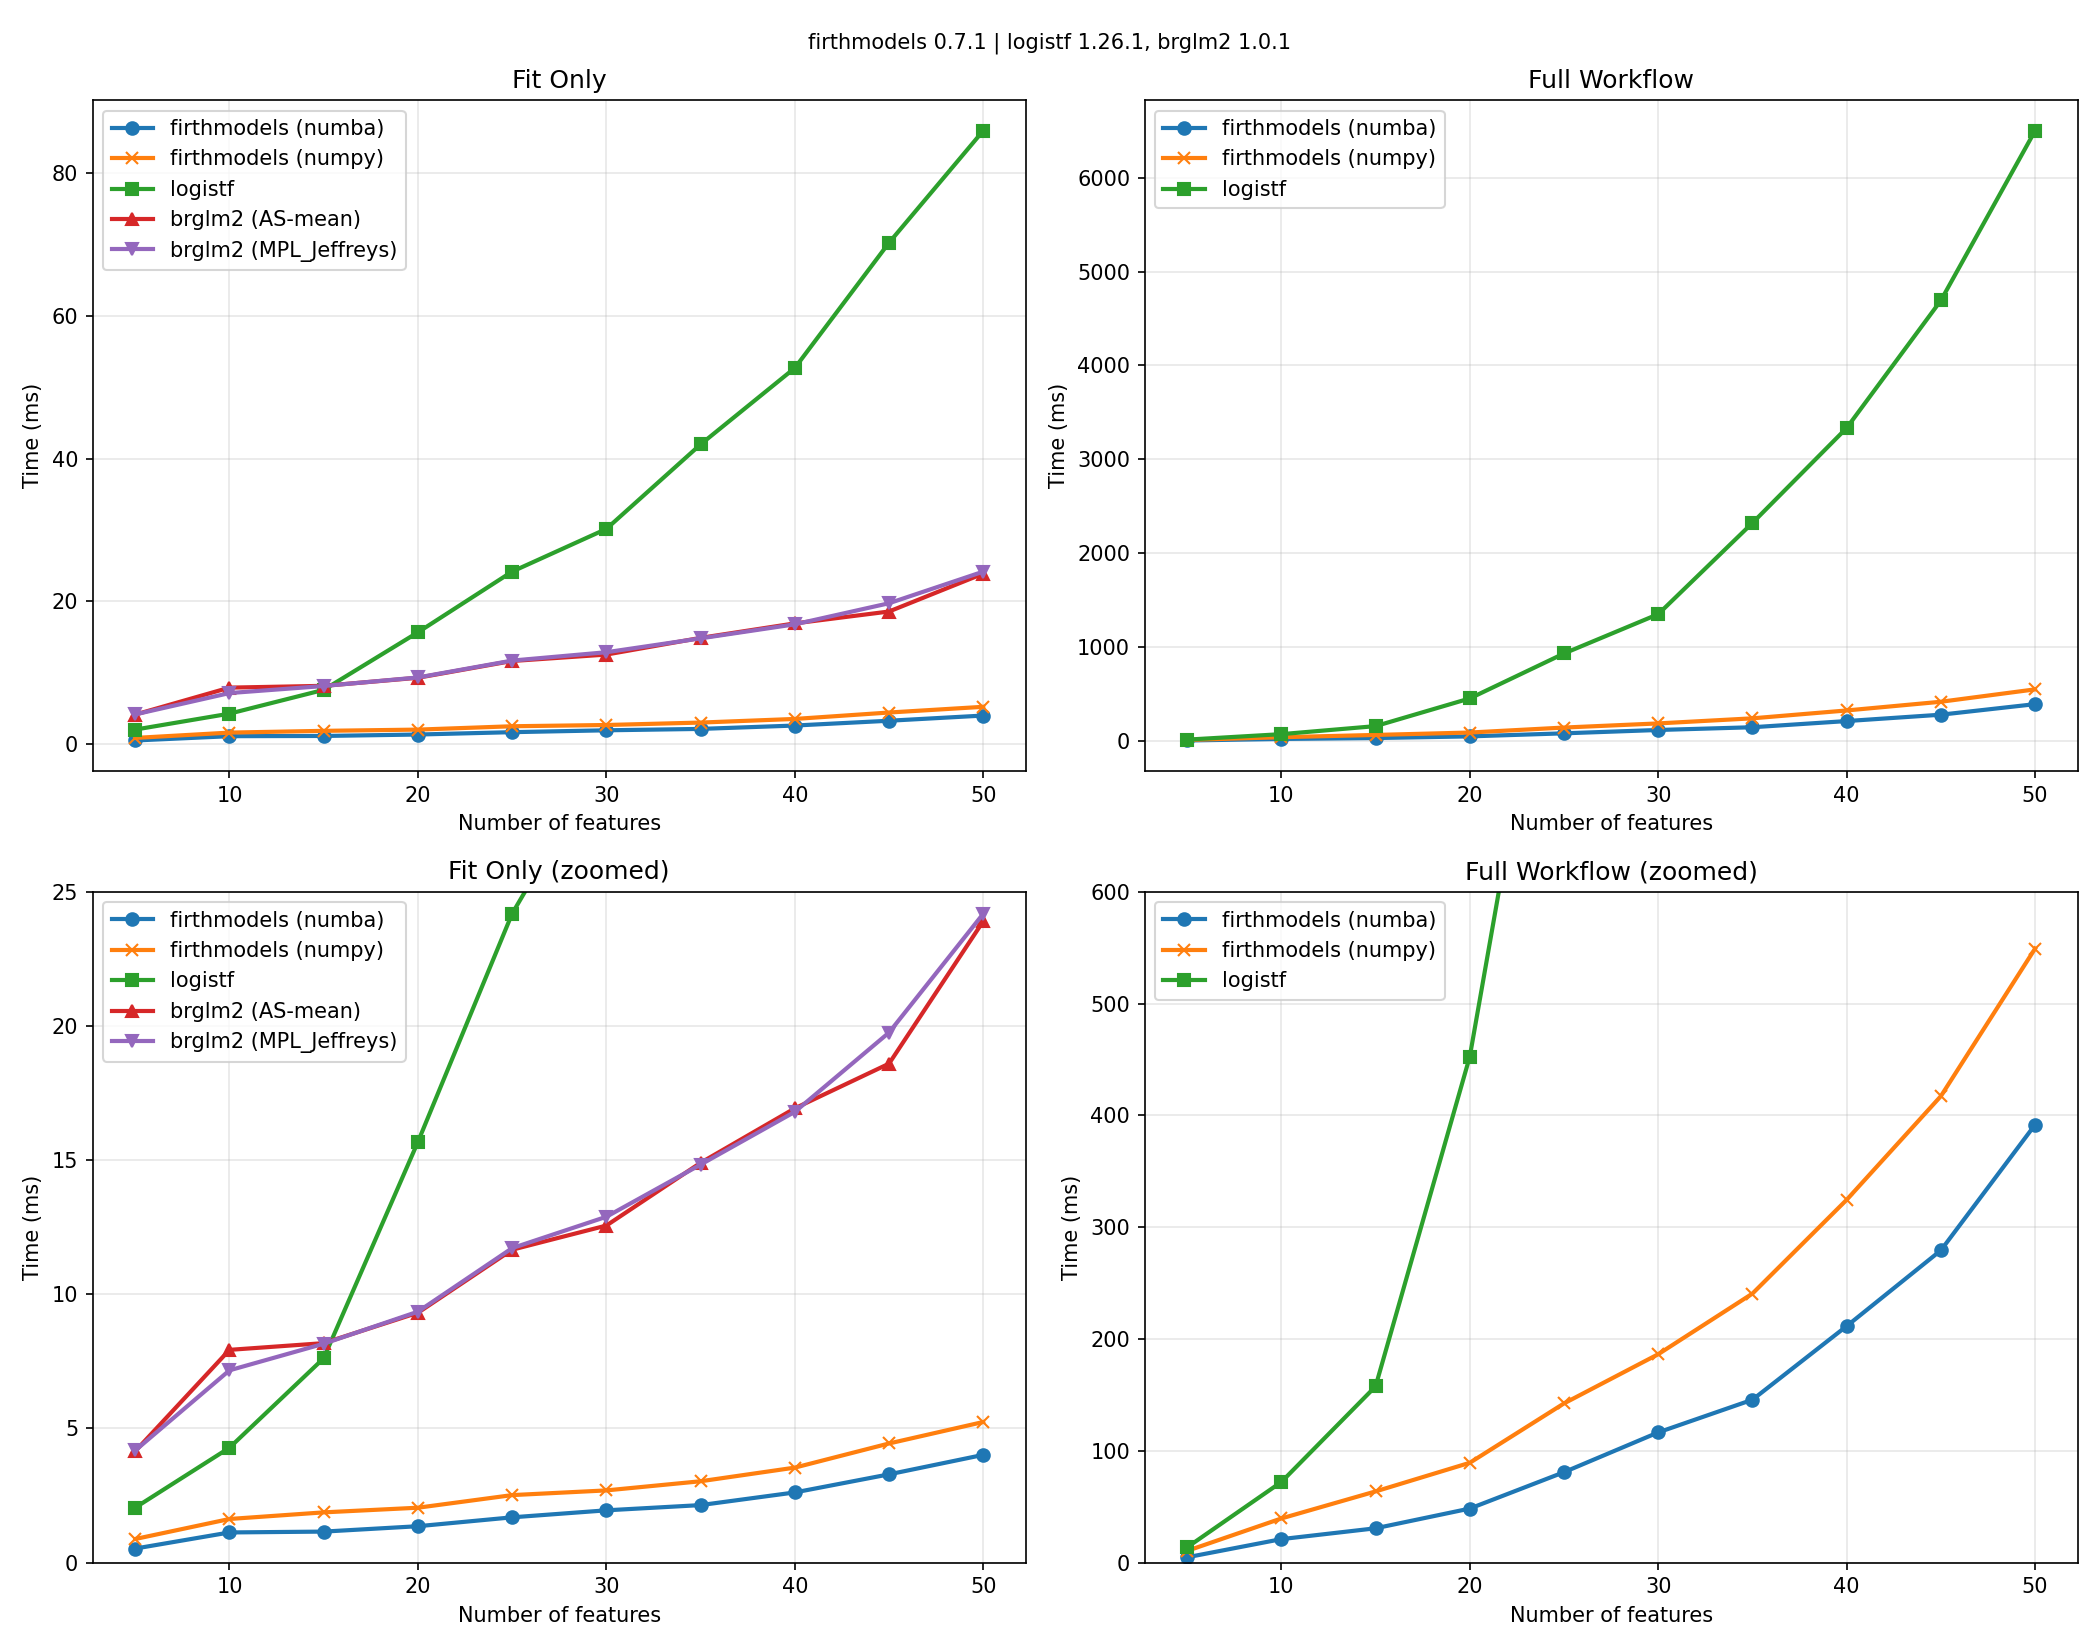
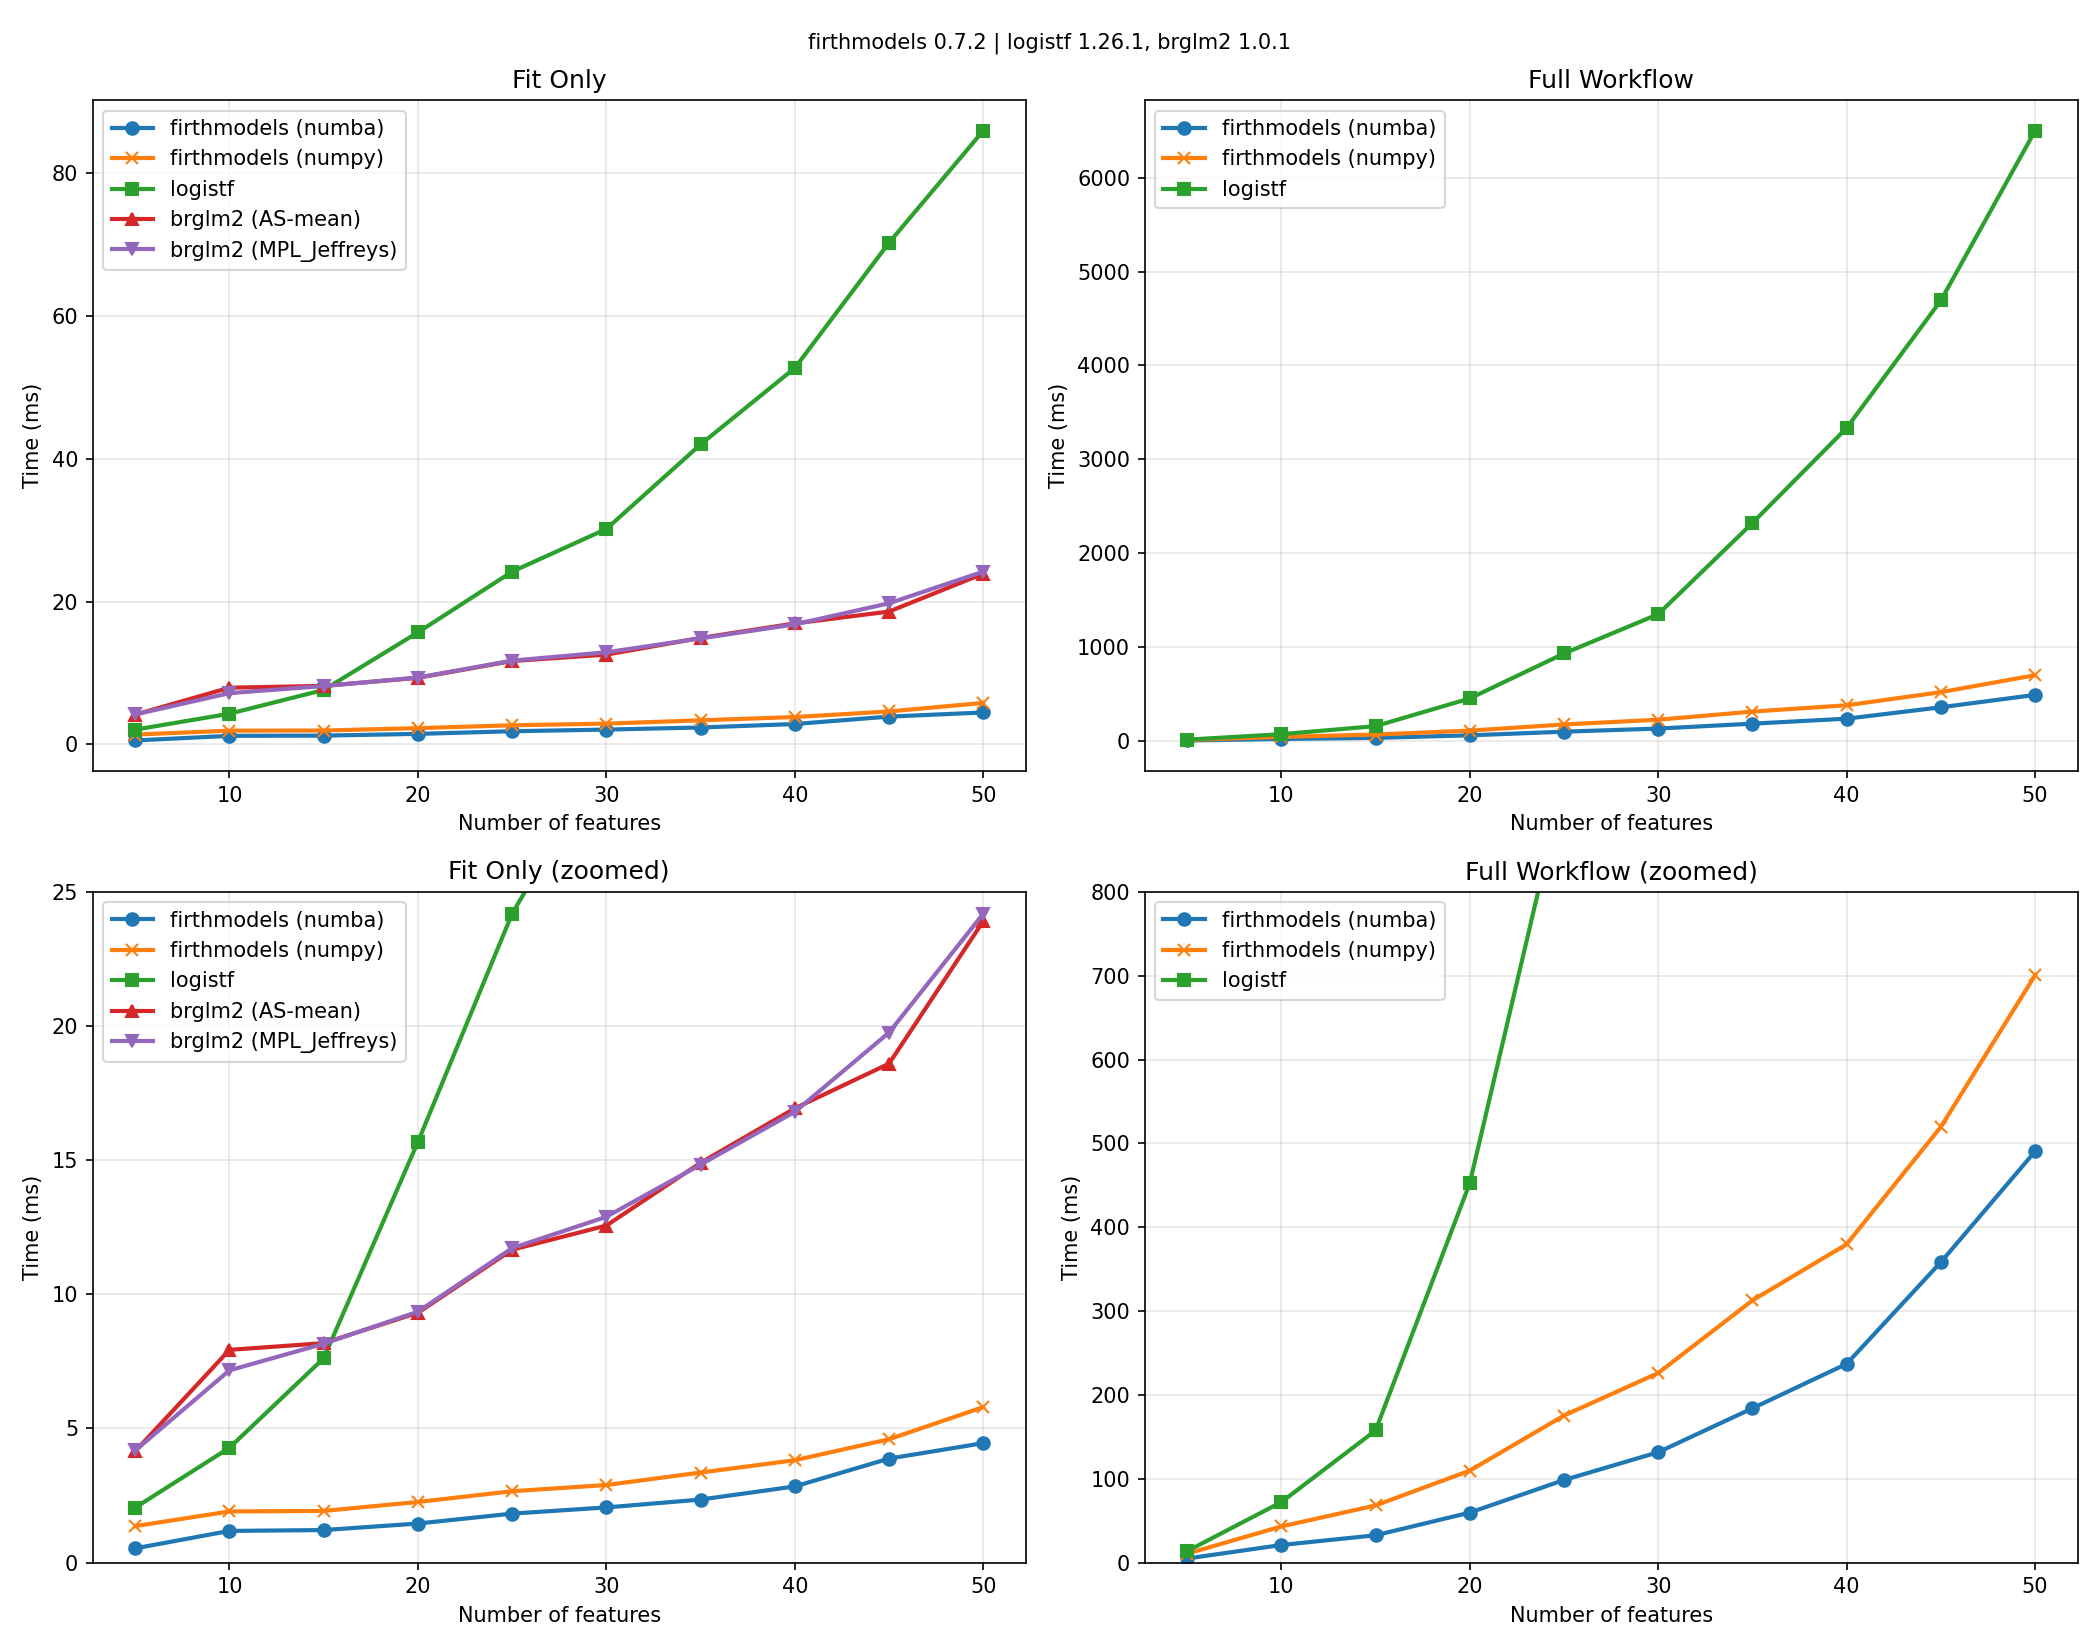
bump to 0.7.2

diff --git a/benchmarks/README.md b/benchmarks/README.md
@@ -11,7 +11,7 @@ Benchmarking of implementations of Firth-penalized logistic regression and Cox r
 | **Python** | 3.12.12 |
 | **NumPy** | 2.3.5 |
 | **SciPy** | 1.16.3 |
-| **Numba** | 0.63.1 |
+| **Numba** | 0.64.0 |
 | **R** | 4.5.2 |
 
 ---
@@ -27,7 +27,7 @@ for Firth-penalized logistic regression.
 
 | Library | Version | BLAS |
 |---------|---------|------|
-| **firthmodels** | 0.7.1 | /usr/lib/x86_64-linux-gnu/openblas-pthread/ (openblas 0.3.26) |
+| **firthmodels** | 0.7.2 | /usr/lib/x86_64-linux-gnu/openblas-pthread/ (openblas 0.3.26) |
 | **brglm2** | 1.0.1 | /usr/lib/x86_64-linux-gnu/openblas-pthread/libblas.so.3 |
 | **logistf** | 1.26.1 | /usr/lib/x86_64-linux-gnu/openblas-pthread/libblas.so.3 |
 
@@ -56,16 +56,16 @@ Time to fit the model and perform Wald inference. Values are minimum time across
 
 | k | firthmodels<br>(numba) | firthmodels<br>(numpy) | brglm2<br>(AS-mean) | brglm2<br>(MPL_Jeffreys) | logistf |
 |--:|------:|------:|------------:|-------------:|--------:|
-|   5 | 0.5 | 0.9 | 4.2 | 4.2 | 2.0 |
-|  10 | 1.1 | 1.6 | 7.9 | 7.2 | 4.3 |
+|   5 | 0.5 | 1.4 | 4.2 | 4.2 | 2.0 |
+|  10 | 1.2 | 1.9 | 7.9 | 7.2 | 4.3 |
 |  15 | 1.2 | 1.9 | 8.2 | 8.2 | 7.6 |
-|  20 | 1.4 | 2.0 | 9.3 | 9.4 | 15.7 |
-|  25 | 1.7 | 2.5 | 11.7 | 11.7 | 24.2 |
-|  30 | 1.9 | 2.7 | 12.6 | 12.9 | 30.2 |
-|  35 | 2.1 | 3.0 | 14.9 | 14.8 | 42.0 |
-|  40 | 2.6 | 3.5 | 16.9 | 16.8 | 52.7 |
-|  45 | 3.3 | 4.4 | 18.6 | 19.8 | 70.3 |
-|  50 | 4.0 | 5.2 | 23.9 | 24.2 | 86.0 |
+|  20 | 1.5 | 2.3 | 9.3 | 9.4 | 15.7 |
+|  25 | 1.8 | 2.7 | 11.7 | 11.7 | 24.2 |
+|  30 | 2.1 | 2.9 | 12.6 | 12.9 | 30.2 |
+|  35 | 2.3 | 3.4 | 14.9 | 14.8 | 42.0 |
+|  40 | 2.8 | 3.8 | 16.9 | 16.8 | 52.7 |
+|  45 | 3.9 | 4.6 | 18.6 | 19.8 | 70.3 |
+|  50 | 4.5 | 5.8 | 23.9 | 24.2 | 86.0 |
 
 #### Full Workflow (Fit + LRT + Profile CI)
 
@@ -73,16 +73,16 @@ Time to fit the model, compute penalized likelihood ratio test p-values for all 
 
 | k | firthmodels<br>(numba) | firthmodels<br>(numpy) | logistf |
 |--:|------:|------:|--------:|
-|   5 | 4.7 | 10.5 | 13.6 |
-|  10 | 21.0 | 39.5 | 72.1 |
-|  15 | 30.7 | 63.7 | 157.6 |
-|  20 | 48.3 | 89.3 | 452.6 |
-|  25 | 80.9 | 142.4 | 931.5 |
-|  30 | 116.5 | 186.4 | 1350.4 |
-|  35 | 145.7 | 240.6 | 2322.4 |
-|  40 | 211.5 | 324.5 | 3334.4 |
-|  45 | 279.3 | 417.3 | 4692.8 |
-|  50 | 391.7 | 549.3 | 6501.0 |
+|   5 | 4.9 | 10.6 | 13.6 |
+|  10 | 21.0 | 43.1 | 72.1 |
+|  15 | 32.6 | 68.1 | 157.6 |
+|  20 | 59.6 | 109.7 | 452.6 |
+|  25 | 98.5 | 175.4 | 931.5 |
+|  30 | 131.6 | 226.1 | 1350.4 |
+|  35 | 184.0 | 312.7 | 2322.4 |
+|  40 | 237.0 | 379.7 | 3334.4 |
+|  45 | 358.4 | 519.7 | 4692.8 |
+|  50 | 490.5 | 700.5 | 6501.0 |
 
 
 ---
@@ -97,7 +97,7 @@ for Firth-penalized Cox proportional hazards regression.
 
 | Library | Version | BLAS |
 |---------|---------|------|
-| **firthmodels** | 0.7.1 | /usr/lib/x86_64-linux-gnu/openblas-pthread/ (openblas 0.3.26) |
+| **firthmodels** | 0.7.2 | /usr/lib/x86_64-linux-gnu/openblas-pthread/ (openblas 0.3.26) |
 | **coxphf** | 1.13.4 | /usr/lib/x86_64-linux-gnu/openblas-pthread/libblas.so.3 |
 
 ### Configuration
@@ -124,12 +124,12 @@ Time to fit the model and perform Wald inference. Values are minimum time across
 
 | k | firthmodels<br>(numba) | firthmodels<br>(numpy) | coxphf |
 |--:|------:|------:|-------:|
-|   5 | 2.9 | 4.3 | 3.5 |
-|  10 | 1.8 | 5.3 | 22.2 |
-|  15 | 2.1 | 6.8 | 49.9 |
-|  20 | 4.1 | 13.8 | 113.9 |
-|  25 | 5.2 | 20.8 | 225.5 |
-|  30 | 7.4 | 53.7 | 391.0 |
+|   5 | 1.8 | 4.3 | 3.5 |
+|  10 | 1.8 | 5.5 | 22.2 |
+|  15 | 2.2 | 7.1 | 49.9 |
+|  20 | 4.5 | 14.7 | 113.9 |
+|  25 | 5.9 | 35.9 | 225.5 |
+|  30 | 8.4 | 69.4 | 391.0 |
 
 #### Full Workflow (Fit + LRT + Profile CI)
 
@@ -137,12 +137,12 @@ Time to fit the model, compute penalized likelihood ratio test p-values for all 
 
 | k | firthmodels<br>(numba) | firthmodels<br>(numpy) | coxphf |
 |--:|------:|------:|-------:|
-|   5 | 4.3 | 17.7 | 23.8 |
-|  10 | 11.6 | 57.1 | 364.4 |
-|  15 | 32.2 | 155.4 | 1693.6 |
-|  20 | 99.1 | 446.4 | 5675.5 |
-|  25 | 164.7 | 813.8 | 16062.0 |
-|  30 | 257.9 | 3178.2 | 34707.3 |
+|   5 | 4.4 | 18.2 | 23.8 |
+|  10 | 11.8 | 58.9 | 364.4 |
+|  15 | 32.9 | 159.1 | 1693.6 |
+|  20 | 105.3 | 473.2 | 5675.5 |
+|  25 | 173.4 | 2240.4 | 16062.0 |
+|  30 | 265.9 | 3846.8 | 34707.3 |
 
 
 ---
